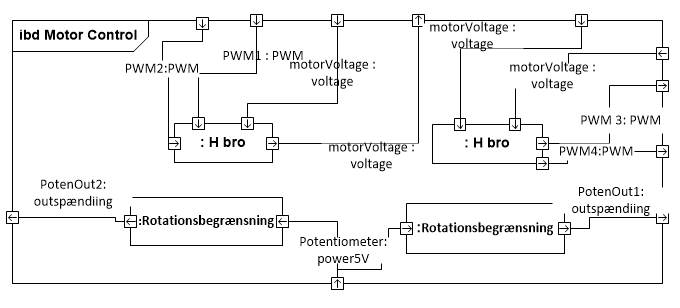
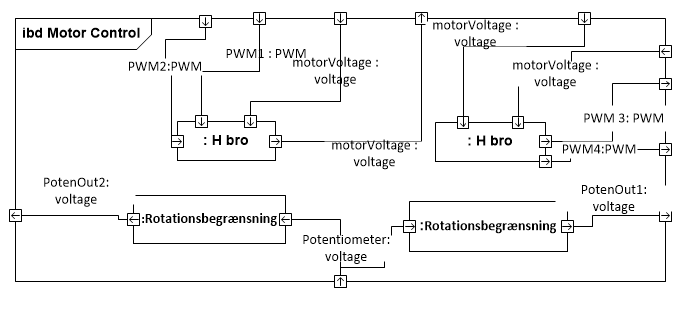
up date signalbeskrivelse and up data blokbeskrivelse

diff --git a/Dokumentation/Afsnit/Systemarkitektur/SystemArkitektur.tex b/Dokumentation/Afsnit/Systemarkitektur/SystemArkitektur.tex
@@ -37,7 +37,7 @@ På figur \ref{fig:BDD} ses et \textit{Block Definition Diagram (BDD)} hvor Cand
 
 
 \subsection{Blokbeskrivelse}
-Følgende afsnit indeholder en blokbeskrivelse samt en flowspecifikation for I2C og SPI. I flowspecifikationen beskrives I2C og SPI forbindelserne mere detaljeret fra en masters synsvinkel. \newline
+Følgende afsnit indeholder en blokbeskrivelse samt en flowspecifikation for I2C og SPI. I flowspecifikationen beskrives I2C og SPI forbindelserne mere detaljeret fra en masters synsvinkel.  I blokbeskrivelsen beskrives hver enkel blok, så man har en ide om hvad hver blok består af, hvis de består af flere ting og så skal det give et overblik over hvad hver blok skal bruges til i systemet \newline
 
 \noindent \textbf{DevKit 8000} \par
 \noindent \textit{DevKit 8000} er en embedded Linux platform med touch-skærm, der bruges til brugergrænsefladen for produktet. Brugeren interagerer med systemet og ser status for spillet via Devkit 8000. 
@@ -49,7 +49,16 @@ Følgende afsnit indeholder en blokbeskrivelse samt en flowspecifikation for I2C
 \noindent \textit{PSoC0} er PSoC hardware der indeholder software til I2C og SPI kommunikationen og afkodning af Wii-Nunchuck data. PSoC0 fungerer som I2C master og SPI slave. Denne PSoC er bindeleddet mellem brugergrænsefladen og resten af systemets hardware.
 
 \noindent \textbf{MotorControl} \par
-\noindent \textit{MotorControl} blokken er Candy Gun 3000's motorerer, der anvendes til at bevæge kanonen i forskellige retninger.
+\noindent \textit{MotorControl} blokken er Candy Gun 3000's motorerer, der anvendes til at bevæge kanonen i forskellige retninger. Denne blok består af Hbro blok og rotationsbegrænsnings blokken
+
+\noindent \textbf{Motor} \par
+\noindent \textit{Motor} blokken er selv motoren 
+
+\noindent \textbf{Hbro} \par
+\noindent \textit{Hbro} blokken er vores h bro som bruges til at få mototren til at køre i begge retninger (glæder for begge h bro blokke)
+
+\noindent \textbf{rotationsbegrænsning} \par
+\noindent \textit{rotationsbegrænsning} blokken er til at styre at motoren ikke drejer 360 grader. Den består af potentiometer og ADC'en som sidder på PSoC'en (glæder for begge rotationsbegrænsning blokke)
 
 \noindent \textbf{PSoC1} \par
 \noindent \textit{PSoC1} er PSoC hardware der indeholder software til I2C kommunikatioon og styring af Candy Gun 3000's motorer. PSoC1 fungerer som I2C slave.
@@ -81,35 +90,42 @@ På baggrund af BDD'et er der lavet et \textit{Internal Block Diagram (IBD)}. I 
 I IBD'et på figur \ref{fig:IBDm} ses forbindelserne og portene mellem blokkene i motorControl blokken. Diagrammet viser grænsefladerne mellem disse blokke og flowet i mellem disse.
 
 \subsection{Signalbeskrivelse}
-I signalbeskrivelsen gælder det, at når et signal beskrives som 'højt' opereres der i et spændingsområde på 3.5V til 5V. På samme måde er signaler beskrevet som 'lav' defineret som spændinger indenfor et område fra 0V til 1,5V. Disse spændingsniveauer er defineret  ud fra standarden for CMOS kredse \cite{cmosStandard}.
 
+I signalbeskrivelsen gælder det, at når et signal beskrives som 'højt' opereres der i et spændingsområde på 3.5V til 5V. På samme måde er signaler beskrevet som 'lav' defineret som spændinger indenfor et område fra 0V til 1,5V. Disse spændingsniveauer er defineret  ud fra standarden for CMOS kredse \cite{cmosStandard}.
 \begin{longtable}{|>{\hspace{0pt}}p{3cm} | >{\hspace{0pt}}p{3cm} | p{2cm} | p{3cm} |}
-	\hline
-	\textbf{Bloknavn} & \textbf{Funktionsbeskrivelse} & \textbf{Signaler} & \textbf{Signalbeskrivelse} \\ \hline
-	Devkit 8000 & Fungerer som grænseflade mellem bruger og systemet samt SPI master. & masterSPI & Type: SPI \newline Spændingsniveau: 0-5V \newline Hastighed: 1Mbps \newline Beskrivelse: SPI bussen hvori der sendes og modtages data.\\ \cline{3-4}
+	\hline                                                                                                                                                         
+	\textbf{Blok-navn} & \textbf{Funktionsbeskrivelse} & \textbf{Signaler} & \textbf{Signalbeskrivelse} \\ \hline
+	Devkit 8000 & Fungerer som grænseflade mellem bruger og systemet samt SPI master. & masterSPI & Type: SPI \newline Spændingsniveau: 0-5V \newline Hastighed: ?? \newline Beskrivelse: SPI bussen hvori der sendes og modtages data.\\ \cline{3-4}
 	& & touch & Type: touch \newline Beskrivelse: Brugertryk på Devkit 8000 touchdisplay. \\ \hline
-	PSoC0 & Fungerer som I2C master for PSoC1 og Wii-Nunchuck samt SPI slave til Devkit 8000. & slaveSPI & Type: SPI \newline Spændingsniveau: 0-5V \newline Hastighed: 1Mbps \newline Beskrivelse: SPI bussen hvori der sendes og modtages data.\\ \cline{3-4}
-	& & wiiMaster & Type: I2C \newline Spændingsniveau: 0-5V \newline Hastighed: 100 Kpbs \newline Beskrivelse: I2C bussen hvor der modtages data fra Nunchuck.\\ \cline{3-4}
+	PSoC0 & Fungerer som I2C master for PSoC1 og Wii-Nunchuck samt SPI slave til Devkit 8000. & slaveSPI & Type: SPI \newline Spændingsniveau: 0-5V \newline Hastighed: ?? \newline Beskrivelse: SPI bussen hvori der sendes og modtages data.\\ \cline{3-4}
+	& & wiiMaster & Type: I2C \newline Spændingsniveau: ?? \newline Hastighed: ?? \newline Beskrivelse: I2C bussen hvor der modtages data fra Nunchuck.\\ \cline{3-4}
 	& & motorMaster & Type: I2C \newline Spændingsniveau: 0-5V \newline Hastighed: 100kbit/sekund \newline Beskrivelse: I2C bussen hvor der sendes afkodet Nunchuck data til PSoC1.\\ \hline
 	PSoC1 & Modtager nunchuckinput fra PSoC0 og omsætter dataene til PWM signaler. & motorSlave & Type: I2C \newline Spændingsniveau: 0-5V \newline Hastighed: 100kbit/sekund \newline Beskrivelse: Indeholder formatteret Wii-Nunchuck data som omsættes til PWM-signal. \\ \cline{3-4} 
 	& & PWM & Type: PWM \newline Frekvens: 22kHz \newline PWM \%: 0-100\% \newline Spændingsniveau: 0-5V \newline Beskrivelse: PWM signal til styring af motorens hastighed. \\ \hline
 	MotorControl & Den enhed der skal bevæge kanonen & PWM1 & Type: PWM \newline Frekvens: 3MHz \newline PWM\%: 0-100\% \newline Spædingsniveau: 0-5V \newline Beskrivelse: PWM signal til styring af motorens hastighed. \\ \cline{3-4}
 	&& PWM2 & Type: PWM \newline Frekvens: 3MHz \newline PWM\%: 0-100\% \newline Spædingsniveau: 0-5V \newline Beskrivelse: PWM signal til styring af motorens hastighed. \\ \cline{3-4}
+<<<<<<< d86f10829a9a7f5a2001e662a13ff152b853d5ed
+ingsniveau: 9V \newline Beskrivelse: Strømforsyning til motoren \\ \cline{3-4}
+4}
+oren står henne\\ \cline{3-4}
+
+>>>>>>> 2dbaa406e466e2f1fe057d01ac2ce09af7bd7ec6
+
 	&& PWM3 & Type: PWM \newline Frekvens: 3MHz \newline PWM\%: 0-100\% \newline Spædingsniveau: 0-5V \newline Beskrivelse: PWM signal til styring af motorens hastighed. \\ \cline{3-4}
 	&& PWM4 & Type: PWM \newline Frekvens: 3MHz \newline PWM\%: 0-100\% \newline Spædingsniveau: 0-5V \newline Beskrivelse: PWM signal til styring af motorens hastighed. \\ \cline{3-4}
-	& & motorVoltage & Type: voltage \newline Spændingsniveau: 9V \newline Beskrivelse: Strømforsyning til motoren \\ \cline{3-4}
-	& & potentiometer & Type: power5V \newline Spændingsniveau: 5V \newline Beskrivelse: giver Rotationsbegrænsing 5V\\ \cline{3-4}
-	& & PotenOut1 & Type: Outspænding \newline Spændingsniveau: en spænding 0V-5V \newline Beskrivelse: den spænding viser hvor motoren står henne\\ \cline{3-4}
-	& & PotenOut2 & Type: Outspænding \newline Spændingsniveau: en spænding 0V-5V \newline Beskrivelse: den spænding viser hvor motoren står henne \\ \hline
+	& & motorVoltage & Type: voltage \newline Spændingsniveau: 9V \newline Beskrivelse: Strømforsyning til motoren\\ \cline{3-4}
+	& & potentiometer & Type: voltage \newline Spændingsniveau: 5V \newline Beskrivelse: giver Rotationsbegrænsing 5V\\ \cline{3-4}
+	& & PotenOut1 & Type: voltage \newline Spændingsniveau: en spænding 0V-5V alt efter hvad potentiometer står på \newline Beskrivelse: den spænding viser hvor motoren står henne\\ \cline{3-4}
+	& & PotenOut2 & Type: voltage \newline Spændingsniveau: en spænding 0V-5V alt efter hvad potentiometer står på \newline Beskrivelse: den spænding viser hvor motoren står henne \\ \hline
 	Wii-nunchuck & Den fysiske controller som brugeren styrer kanonen med. & wiiSlave & Type: I2C \newline Spændingsniveau: 0-5V \newline Hastighed: 100kbit/sekund \newline Beskrivelse: Kommunikationslinje mellem PSoC1 og Wii-Nunchuck. \\ \cline{3-4}
 	& & userInput & Type: input \newline Beskrivelse: Brugerinput fra Wii-Nunchuck. \\ \hline
-	SPI & Denne blok beskriver den ikke-atomiske SPI forbindelse. & MOSI & Type: CMOS \newline Spændingsniveau: 0-5V \newline Beskrivelse: Binært data der sendes fra master til slave. \\ \cline{3-4}
-	& & MISO & Type: CMOS \newline Spændingsniveau: 0-5V  \newline Beskrivelse: Binært data der sendes fra slave til master. \\ \cline{3-4}
-	& & SCLK & Type: CMOS \newline Spændingsniveau: 0-5V \newline Hastighed: 1Mbps \newline Beskrivelse: Clock signalet fra master til slave, som bruges til at synkronisere den serielle kommunikation. \\ \cline{3-4}
-	& & SS & Type: CMOS \newline Spændingsniveau: 0-5V  \newline  Beskrivelse: Slave-Select, som bruges til at bestemme hvilken slave der skal kommunikeres med. \\ \hline
-	I2C & Denne blok beskriver den ikke-atomiske I2C forbindelse. & SDA & Type: CMOS \newline Spændingsniveau: 0-5V  \newline Beskrivelse: Databussen mellem I2C masteren og I2C slaver. \\ \cline{3-4}
-	& & SCL & Type: CMOS \newline Spændingsniveau: 0-5V \newline Hastighed: 100kbps \newline Beskrivelse: Clock signalet fra master til lyttende I2C slaver, som bruges til at synkronisere den serielle kommunikation. \\ \hline
-	\caption{Signalbeskrivelse}
+	SPI & Denne blok beskriver den ikke-atomiske SPI forbindelse. & MOSI & Type: CMOS \newline Spændingsniveau: 0-5V \newline Hastighed: ?? \newline Beskrivelse: Binært data der sendes fra master til slave. \\ \cline{3-4}
+	& & MISO & Type: CMOS \newline Spændingsniveau: 0-5V \newline Hastighed: ?? \newline Beskrivelse: Binært data der sendes fra slave til master. \\ \cline{3-4}
+	& & SCLK & Type: CMOS \newline Spændingsniveau: 0-5V \newline Hastighed: ?? \newline Beskrivelse: Clock signalet fra master til slave, som bruges til at synkronisere den serielle kommunikation. \\ \cline{3-4}
+	& & SS & Type: CMOS \newline Spændingsniveau: 0-5V \newline Hastighed: ?? \newline  Beskrivelse: Slave-Select, som bruges til at bestemme hvilken slave der skal kommunikeres med. \\ \hline
+	I2C & Denne blok beskriver den ikke-atomiske I2C forbindelse. & SDA & Type: CMOS \newline Spændingsniveau: 0-5V \newline Hastighed: ?? \newline Beskrivelse: Databussen mellem I2C masteren og I2C slaver. \\ \cline{3-4}
+	& & SCL & Type: CMOS \newline Spændingsniveau: 0-5V \newline Hastighed: ?? \newline Beskrivelse: Clock signalet fra master til lyttende I2C slaver, som bruges til at synkronisere den serielle kommunikation. \\ \hline
+	\caption{Tabel med signalbeskrivelse}
 \end{longtable}
 
 \section{Software Allokeringsdiagram}
@@ -144,7 +160,6 @@ På tabel \ref{tabel:softwareAllocationDescription} er hvert allokeret software 
 \section{Use Case 1 - Spil Goofy Candy Gun 3000}
 
 Følgende afsnit præsenterer applikationsmodeller relevante til Use Case 1 - Spil Goofy Candy Gun 3000, fordelt over systemets CPU'er.
-En essentiel del af use case 1, er at kunne styre motoren ved brug af Wii-Nunchuck controlleren. På figur \ref{fig:WiiNunchuckSequenceDiagram} vises gennemløbet af Wii-Nunchuck input data fra Wii-Nunchuken til motoren, med de relevante CPU'er angivet.
 
 \begin{figure}[H]
 	\centering
@@ -152,9 +167,6 @@ En essentiel del af use case 1, er at kunne styre motoren ved brug af Wii-Nunchu
 	\caption{Overordnet sekvensdiagram for Wii-Nunchuck informations flow}
 	\label{fig:WiiNunchuckSequenceDiagram}
 \end{figure}
-
- Her ses det at input data fra Wii-Nunchuck kontinuert bliver aflæst af PSoC0. Det bemærkes her at grænsefladen mellem PSoC0 og Wii-Nunchuck er en I2C bus. Efter at PSoC0 har aflæst input data'en, overføres den til PSoC1. Grænsefladen mellem disse to PSoCs er også en I2C bus. PSoC1 kan til slut oversætte modtaget input data til PWM signaler til motorstyring samt affyring.
-
 
 \subsection{Applikationsmodel for Nunchuck Polling Software}
 

diff --git a/ProjektRapport/Afsnit/Systemarkitektur/SystemArkitektur.tex b/ProjektRapport/Afsnit/Systemarkitektur/SystemArkitektur.tex
@@ -35,7 +35,7 @@ På figur \ref{figure:bddDiagram} ses BDD'et for systemet.
 Her vises alle hardwareblokke fra domænemodellen (figur \ref{figure:domainModel}) med nødvændige indgange og udgange for de fysiske signaler. Yderligere ses det at flow specifikationer er defineret for de ikke-atomare forbindelser \textit{I2C} samt \textit{SPI}, da disse er busser bestående af flere forbindelser. Der henvises til \textbf{IBD AFSNIT} for en detaljeret model af de fysiske forbindelser mellem hardwareblokkende.
 
 \subsection{Blokbeskrivelse}
-Følgende afsnit indeholder en blokbeskrivelse samt en flowspecifikation for I2C og SPI. I flowspecifikationen beskrives I2C og SPI forbindelserne mere detaljeret fra en masters synsvinkel. \newline
+Følgende afsnit indeholder en blokbeskrivelse samt en flowspecifikation for I2C og SPI. I flowspecifikationen beskrives I2C og SPI forbindelserne mere detaljeret fra en masters synsvinkel.  I blokbeskrivelsen beskrives hver enkel blok, så man har en ide om hvad hver blok består af, hvis de består af flere ting og så skal det give et overblik over hvad hver blok skal bruges til i systemet \newline \newline
 
 \begin{table}[H]
 	\centering
@@ -46,7 +46,13 @@ Følgende afsnit indeholder en blokbeskrivelse samt en flowspecifikation for I2C
 		 DevKit 8000 er en embedded Linux platform med touch-skærm, \\ der bruges tilbrugergrænsefladen for produktet. Brugeren inter- \\ agerer med systemet og ser status for spillet via Devkit 8000.                                                      \end{tabular} \\ \hline
 		Wii-Nunchuck            & \begin{tabular}[c]{@{}l@{}}Wii-Nunchuck er controlleren som brugeren styrer kanonens \\ retning med. \end{tabular} \\ \hline
 		PSoC0                   & \begin{tabular}[c]{@{}l@{}}PSoC0 er PSoC hardware der indeholder software til I2C og \\ SPI kommunikationen og afkodning af Wii-Nunchuck data. \\ PSoC0 fungerer som I2C masterog SPI slave. Denne PSoC er \\ bindeleddet mellem brugergrænsefladen og restenaf systemets \\ hardware. \end{tabular} \\ \hline
-		MotorControl                   & \begin{tabular}[c]{@{}l@{}}MotorControl blokken er Candy Gun 3000’s motorerer, der anvendes \\ til at bevægekanonen i forskellige retninger. \end{tabular} \\ \hline
+		MotorControl                   & \begin{tabular}[c]{@{}l@{}}MotorControl blokken er Candy Gun 3000’s motorerer, der anvendes \\ til at bevægekanonen i forskellige retninger.Denne blok består af Hbro blok og rotationsbegrænsnings blokken \end{tabular} \\ \hline
+		Motor &
+		\begin{tabular}[c]{@{}l@{}}blokken er selv motoren  \end{tabular} \\ \hline
+		H bro &
+		\begin{tabular}[c]{@{}l@{}}blokken er vores h bro som bruges til at få mototren til at køre i begge retninger (glæder for begge h bro blokke)  \end{tabular} \\ \hline
+			rorationsbegrænsing &
+			\begin{tabular}[c]{@{}l@{}}blokken er til at styre at motoren ikke drejer 360 grader. Den består af potentiometer og ADC'en som sidder på PSoC'en (glæder for begge rotationsbegrænsning blokke) \end{tabular} \\ \hline
 		PSoC1                   & \begin{tabular}[c]{@{}l@{}}PSoC1 er PSoC hardware der indeholder software til I2C \\ kommunikation og styring af Candy Gun 3000’s motorer. \\ PSoC1 fungerer som I2C slave. \end{tabular} \\ \hline
 		SPI (FlowSpecification) &  \begin{tabular}[c]{@{}l@{}}SPI (FlowSpecification) beskriver signalerne der indgår i SPI \\ kommunikation. \end{tabular} \\ \hline
 		I2C (FlowSpecification) &  \begin{tabular}[c]{@{}l@{}}I2C (FlowSpecification) beskriver signalerne der indgår i I2C \\ kommunikation. \end{tabular} \\ \hline	
@@ -90,9 +96,9 @@ Det ses at systemet bliver påvirket af tre eksterne signaler: \textit{touch}, \
 	&& PWM3 & Type: PWM \newline Frekvens: 3MHz \newline PWM\%: 0-100\% \newline Spædingsniveau: 0-5V \newline Beskrivelse: PWM signal til styring af motorens hastighed. \\ \cline{3-4}
 	&& PWM4 & Type: PWM \newline Frekvens: 3MHz \newline PWM\%: 0-100\% \newline Spædingsniveau: 0-5V \newline Beskrivelse: PWM signal til styring af motorens hastighed. \\ \cline{3-4}
 	& & motorVoltage & Type: voltage \newline Spændingsniveau: 9V \newline Beskrivelse: Strømforsyning til motoren \\ \cline{3-4}
-	& & potentiometer & Type: power5V \newline Spændingsniveau: 5V \newline Beskrivelse: giver Rotationsbegrænsing 5V\\ \cline{3-4}
-	& & PotenOut1 & Type: Outspænding \newline Spændingsniveau: en spænding 0V-5V \newline Beskrivelse: den spænding viser hvor motoren står henne\\ \cline{3-4}
-	& & PotenOut2 & Type: Outspænding \newline Spændingsniveau: en spænding 0V-5V \newline Beskrivelse: den spænding viser hvor motoren står henne \\ \hline
+	& & potentiometer & Type: voltage \newline Spændingsniveau: 5V \newline Beskrivelse: giver Rotationsbegrænsing 5V\\ \cline{3-4}
+	& & PotenOut1 & Type: voltage \newline Spændingsniveau: en spænding 0V-5V  alt efter hvad potentiometer står på \newline Beskrivelse: den spænding viser hvor motoren står henne\\ \cline{3-4}
+	& & PotenOut2 & Type: voltage \newline Spændingsniveau: en spænding 0V-5V  alt efter hvad potentiometer står på \newline Beskrivelse: den spænding viser hvor motoren står henne \\ \hline
 	Wii-nunchuck & Den fysiske controller som brugeren styrer kanonen med. & wiiSlave & Type: I2C \newline Spændingsniveau: 0-5V \newline Hastighed: 100kbit/sekund \newline Beskrivelse: Kommunikationslinje mellem PSoC1 og Wii-Nunchuck. \\ \cline{3-4}
 	& & userInput & Type: input \newline Beskrivelse: Brugerinput fra Wii-Nunchuck. \\ \hline
 	SPI & Denne blok beskriver den ikke-atomiske SPI forbindelse. & MOSI & Type: CMOS \newline Spændingsniveau: 0-5V \newline Beskrivelse: Binært data der sendes fra master til slave. \\ \cline{3-4}
